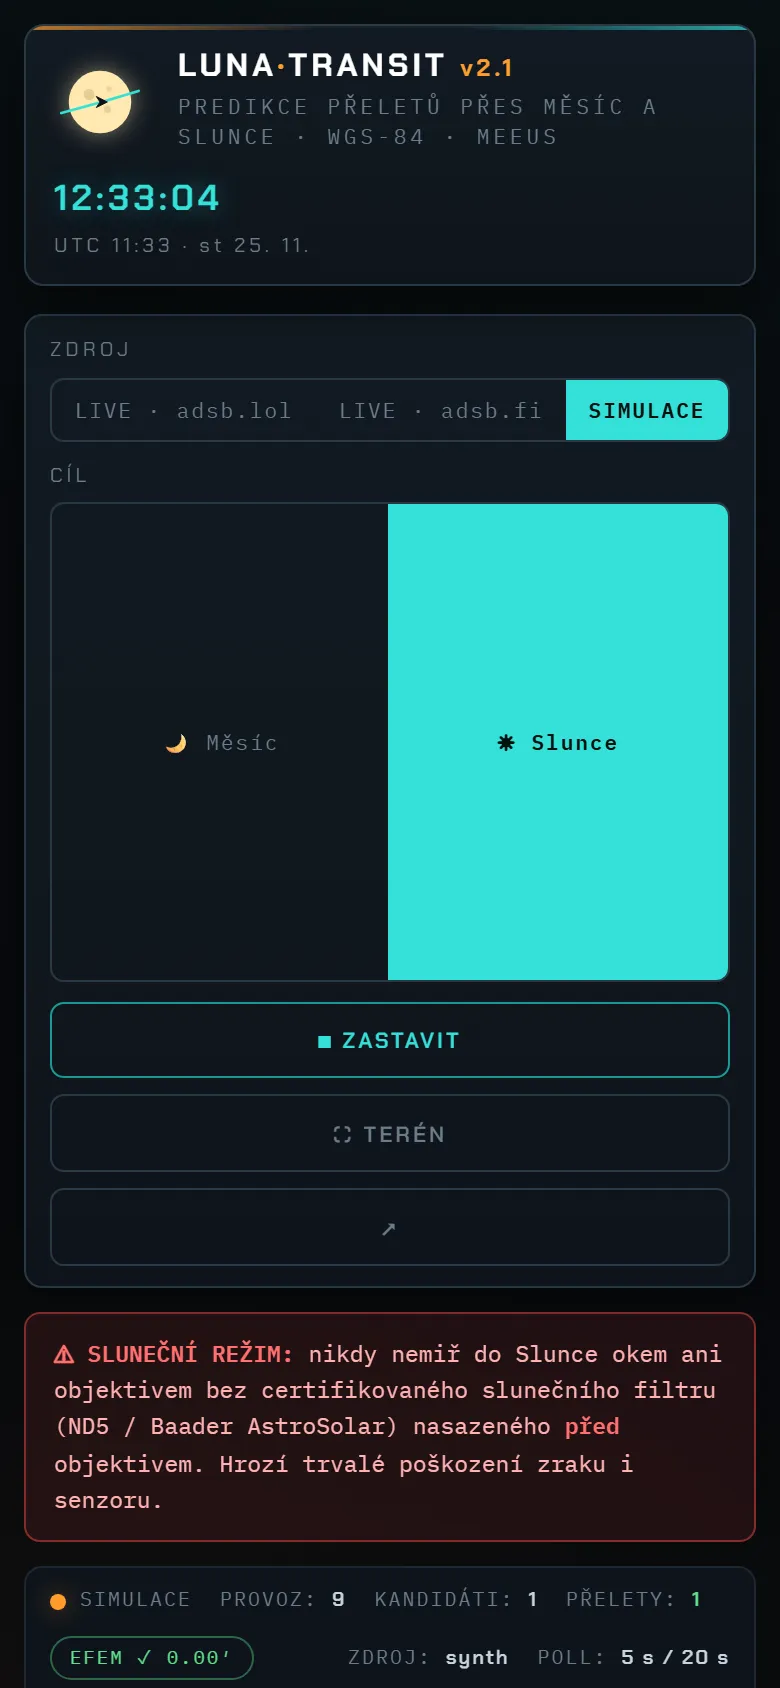
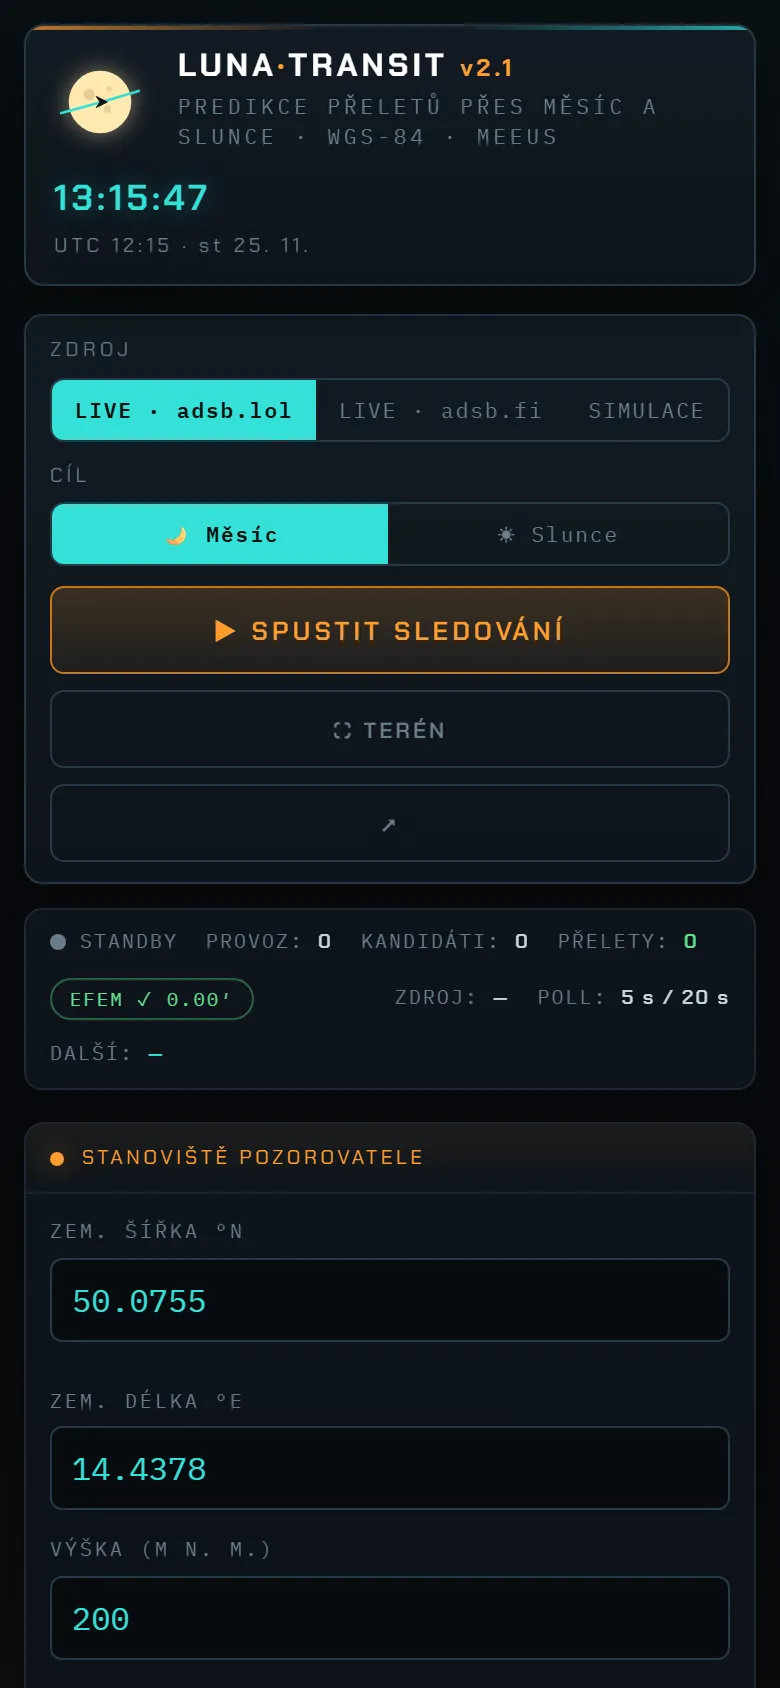
Mobil: přepínač Cíl se neroztahuje do výšky
Na šířce ≤ 700 px se lišta mění na sloupec a inline `flex: 0 1 260px`
bloku Cíl (spolu s `flex: 1` přepínače) se uplatnilo na výšku – přepínač
Měsíc/Slunce měl ~470 px. V mobilním media query flex vypnut.
Screenshot mobilu v README nahrazen opraveným.

Claude-Session: https://claude.ai/code/session_01BafU8YcDbNMQFHYXNwyru2

diff --git a/index.html b/index.html
@@ -86,7 +86,8 @@ h1 span{color:var(--amber)}
 .launch-mini{padding:9px 12px;font-size:11px;letter-spacing:1px;width:auto;margin:0}
 @media(max-width:700px){
   .launch{flex-direction:column;align-items:stretch;gap:10px;padding:10px 12px}
-  .launch-src{flex-direction:column;align-items:stretch;gap:6px;min-width:0}
+  .launch-src{flex-direction:column;align-items:stretch;gap:6px;min-width:0;flex:none!important}   /* inline flex-basis 260px by ve sloupci roztáhl blok do výšky */
+  .launch .seg.compact{flex:none}
   .launch-actions{width:100%}.launch-go,.launch-stop{flex:1;min-width:0}
 }
 
